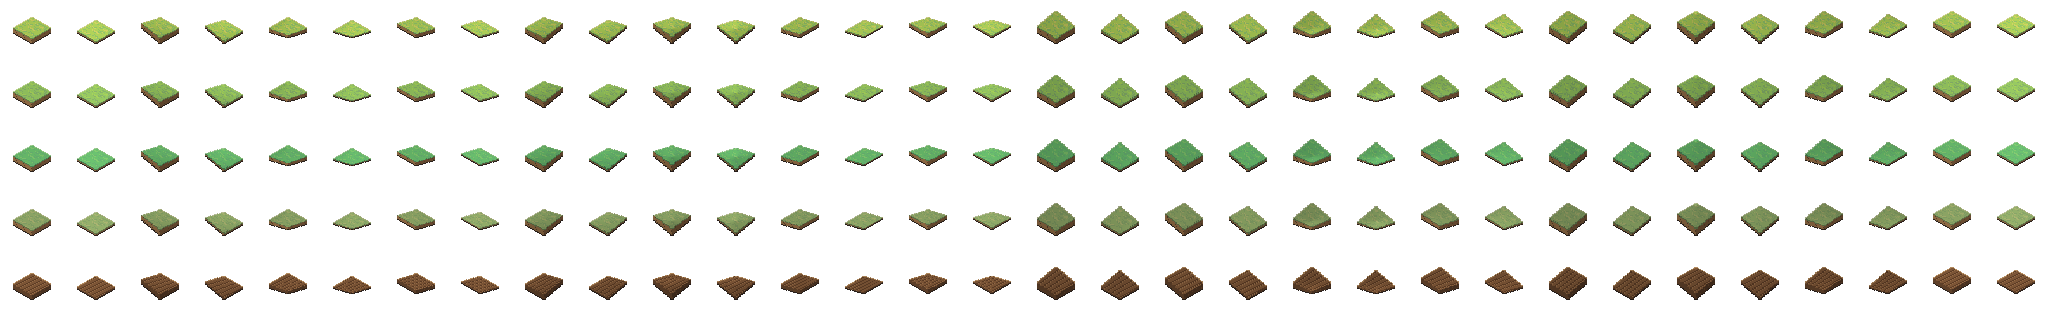
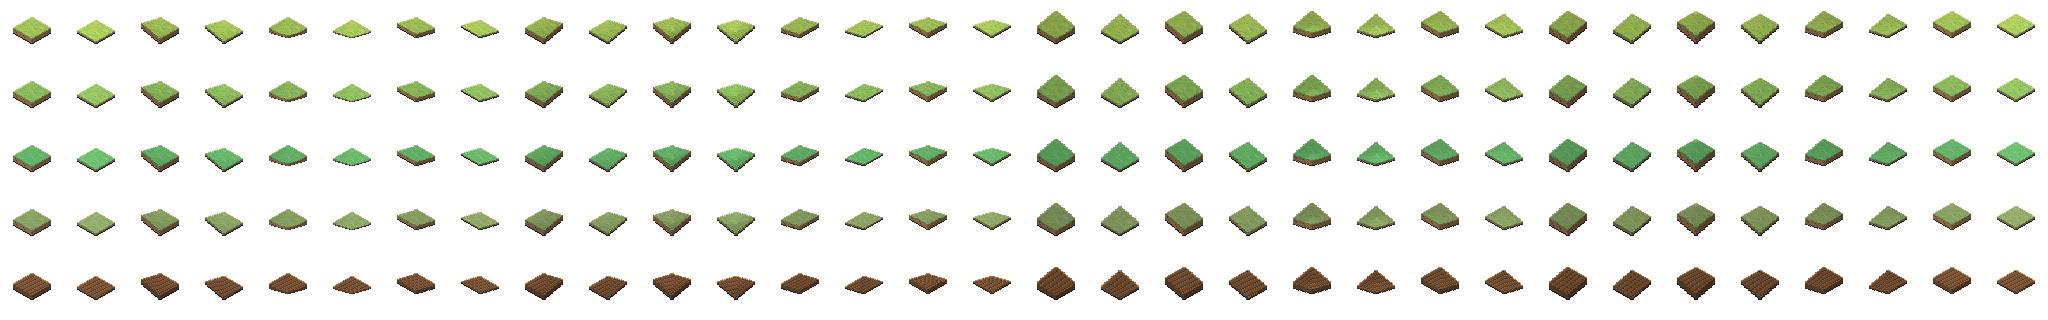
feat(godot): le brouillard sur les mottes inexplorees, et les coins de rampe a plat
Les mottes qu'aucune case ouverte ne touche passent sous le voile
d'avant (0,4, en multiply sur la motte) ; le front de ce qu'on connait
reste clair et dit ou aller. Le voile se leve avec la vague.

Les coins de rampe prennent la forme du sol (les deux facettes de
Slopes) : lisses, ils se bombaient et faisaient des pics contre les
voisines plates. L'ombre reste lisse, sans saut d'une facette a l'autre.

diff --git a/tools/paint_dig_tile.py b/tools/paint_dig_tile.py
@@ -16,10 +16,12 @@ deforme l'herbe.
     retournee, sillons compris. Un carre de jardin sureleve, pas du pre.
   • LES RAMPES : chaque rangee repete ses deux mottes pour les 16 formes de
     rampe (coins nord, est, sud, ouest leves d'un palier ou non, `n*8+e*4+s*2+w`,
-    la forme 0 est le plat) — colonne `forme*2 + motte`. PEINTES LISSES, par un
-    melange bilineaire des quatre coins : la deformation du jeu
-    (`Slopes.ramp_texture`) coupe le losange en deux facettes, et la motte
-    montrait la cassure le long de la diagonale.
+    la forme 0 est le plat) — colonne `forme*2 + motte`. LA FORME EST CELLE DU
+    SOL (`Slopes._facet` : deux facettes, meme diagonale), sinon un coin de
+    rampe se bombait ou se creusait et ses bords ne tombaient plus sur les
+    voisines plates — des pics dans les coins. L'OMBRE, elle, est LISSE (le
+    gradient bilineaire des coins) : c'est le saut d'ombre d'une facette a
+    l'autre qui faisait la cassure.
   • case 1 — INDICEE : la meme motte ENFONCEE (`PRESSED` px), plus claire,
     pour que le chiffre multiplie se lise dessus.
 
@@ -228,11 +230,20 @@ def ramp(src: Image.Image, form: int) -> Image.Image:
         sy = y + 0.5 - c
         return sx / DIAMOND_W + sy / DIAMOND_H + 0.5, sy / DIAMOND_H - sx / DIAMOND_W + 0.5
 
+    # La diagonale dont les bouts s'accordent — la regle de `Slopes`.
+    cut_tb = n == s_ or e != w
+
     def height(u, v):
         # La tranche d'une motte prend la hauteur du bord au-dessus d'elle.
         u = min(1.0, max(0.0, u))
         v = min(1.0, max(0.0, v))
-        return n * (1 - u) * (1 - v) + e * u * (1 - v) + s_ * u * v + w * (1 - u) * v
+        if cut_tb:
+            if u >= v:
+                return n + (e - n) * u + (s_ - e) * v
+            return n + (s_ - w) * u + (w - n) * v
+        if u + v <= 1.0:
+            return n + (e - n) * u + (w - n) * v
+        return s_ + (s_ - w) * (u - 1.0) + (s_ - e) * (v - 1.0)
 
     for Y in range(CELL):
         for X in range(CELL):
